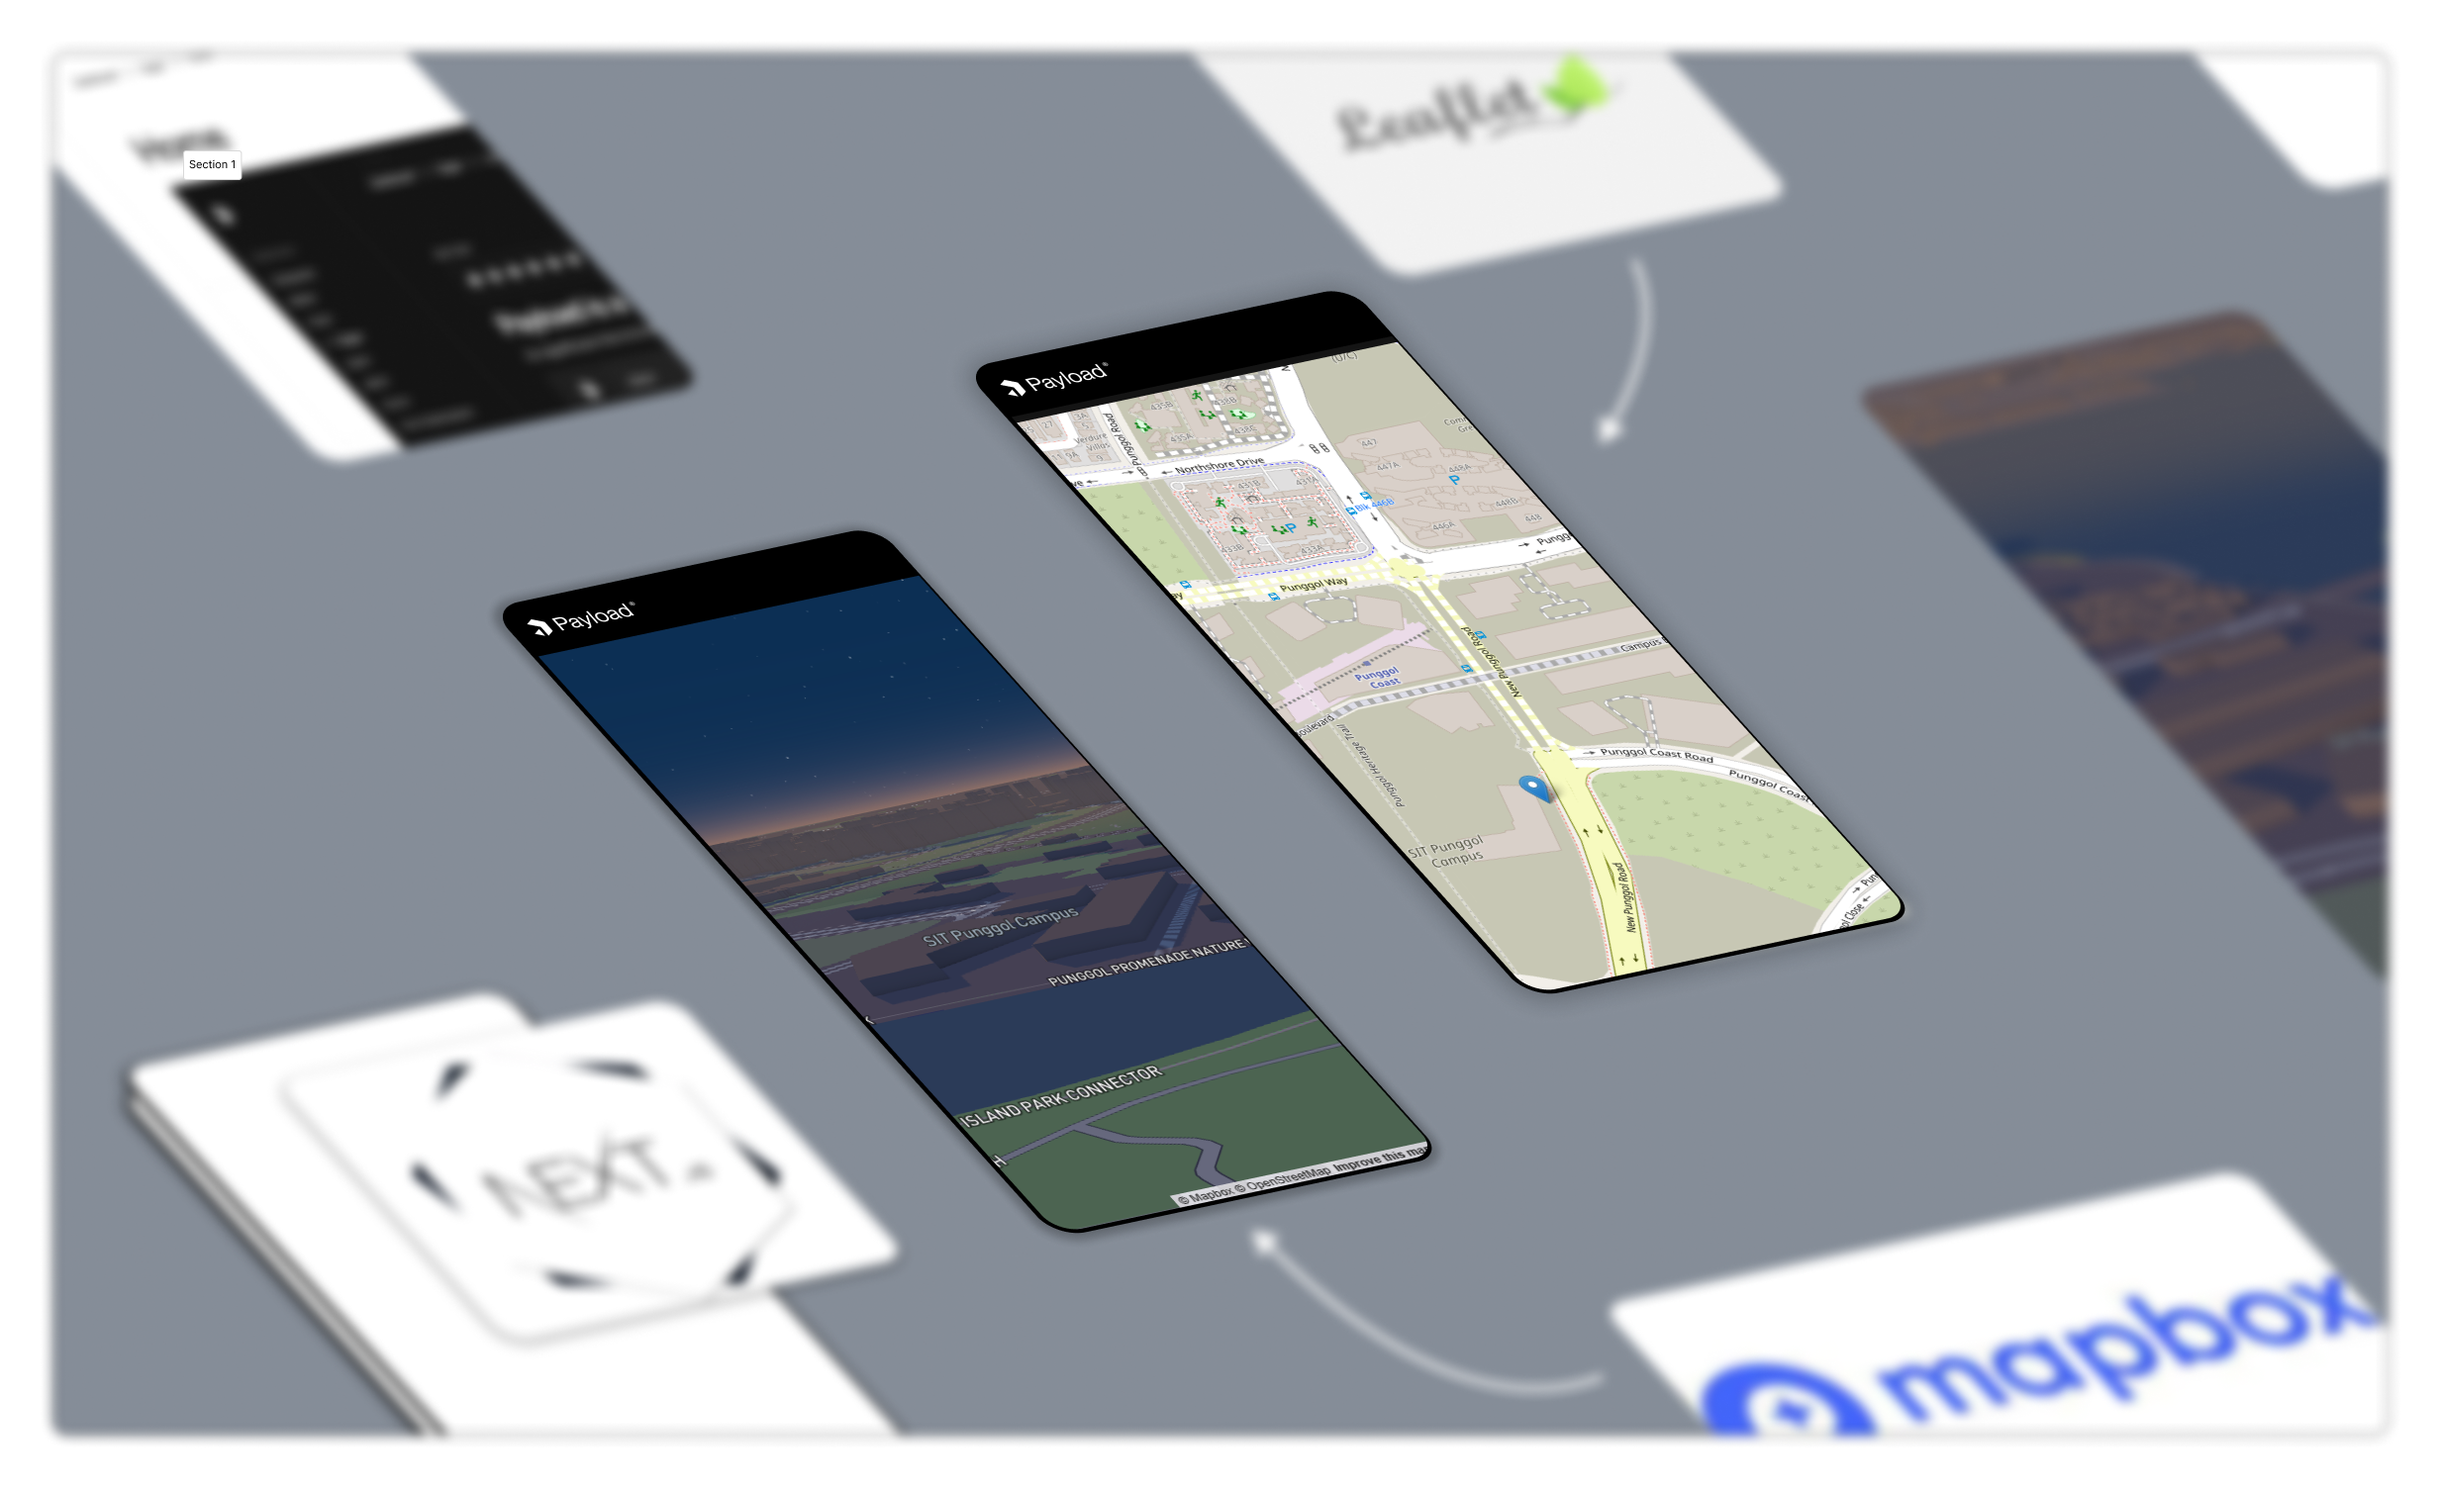
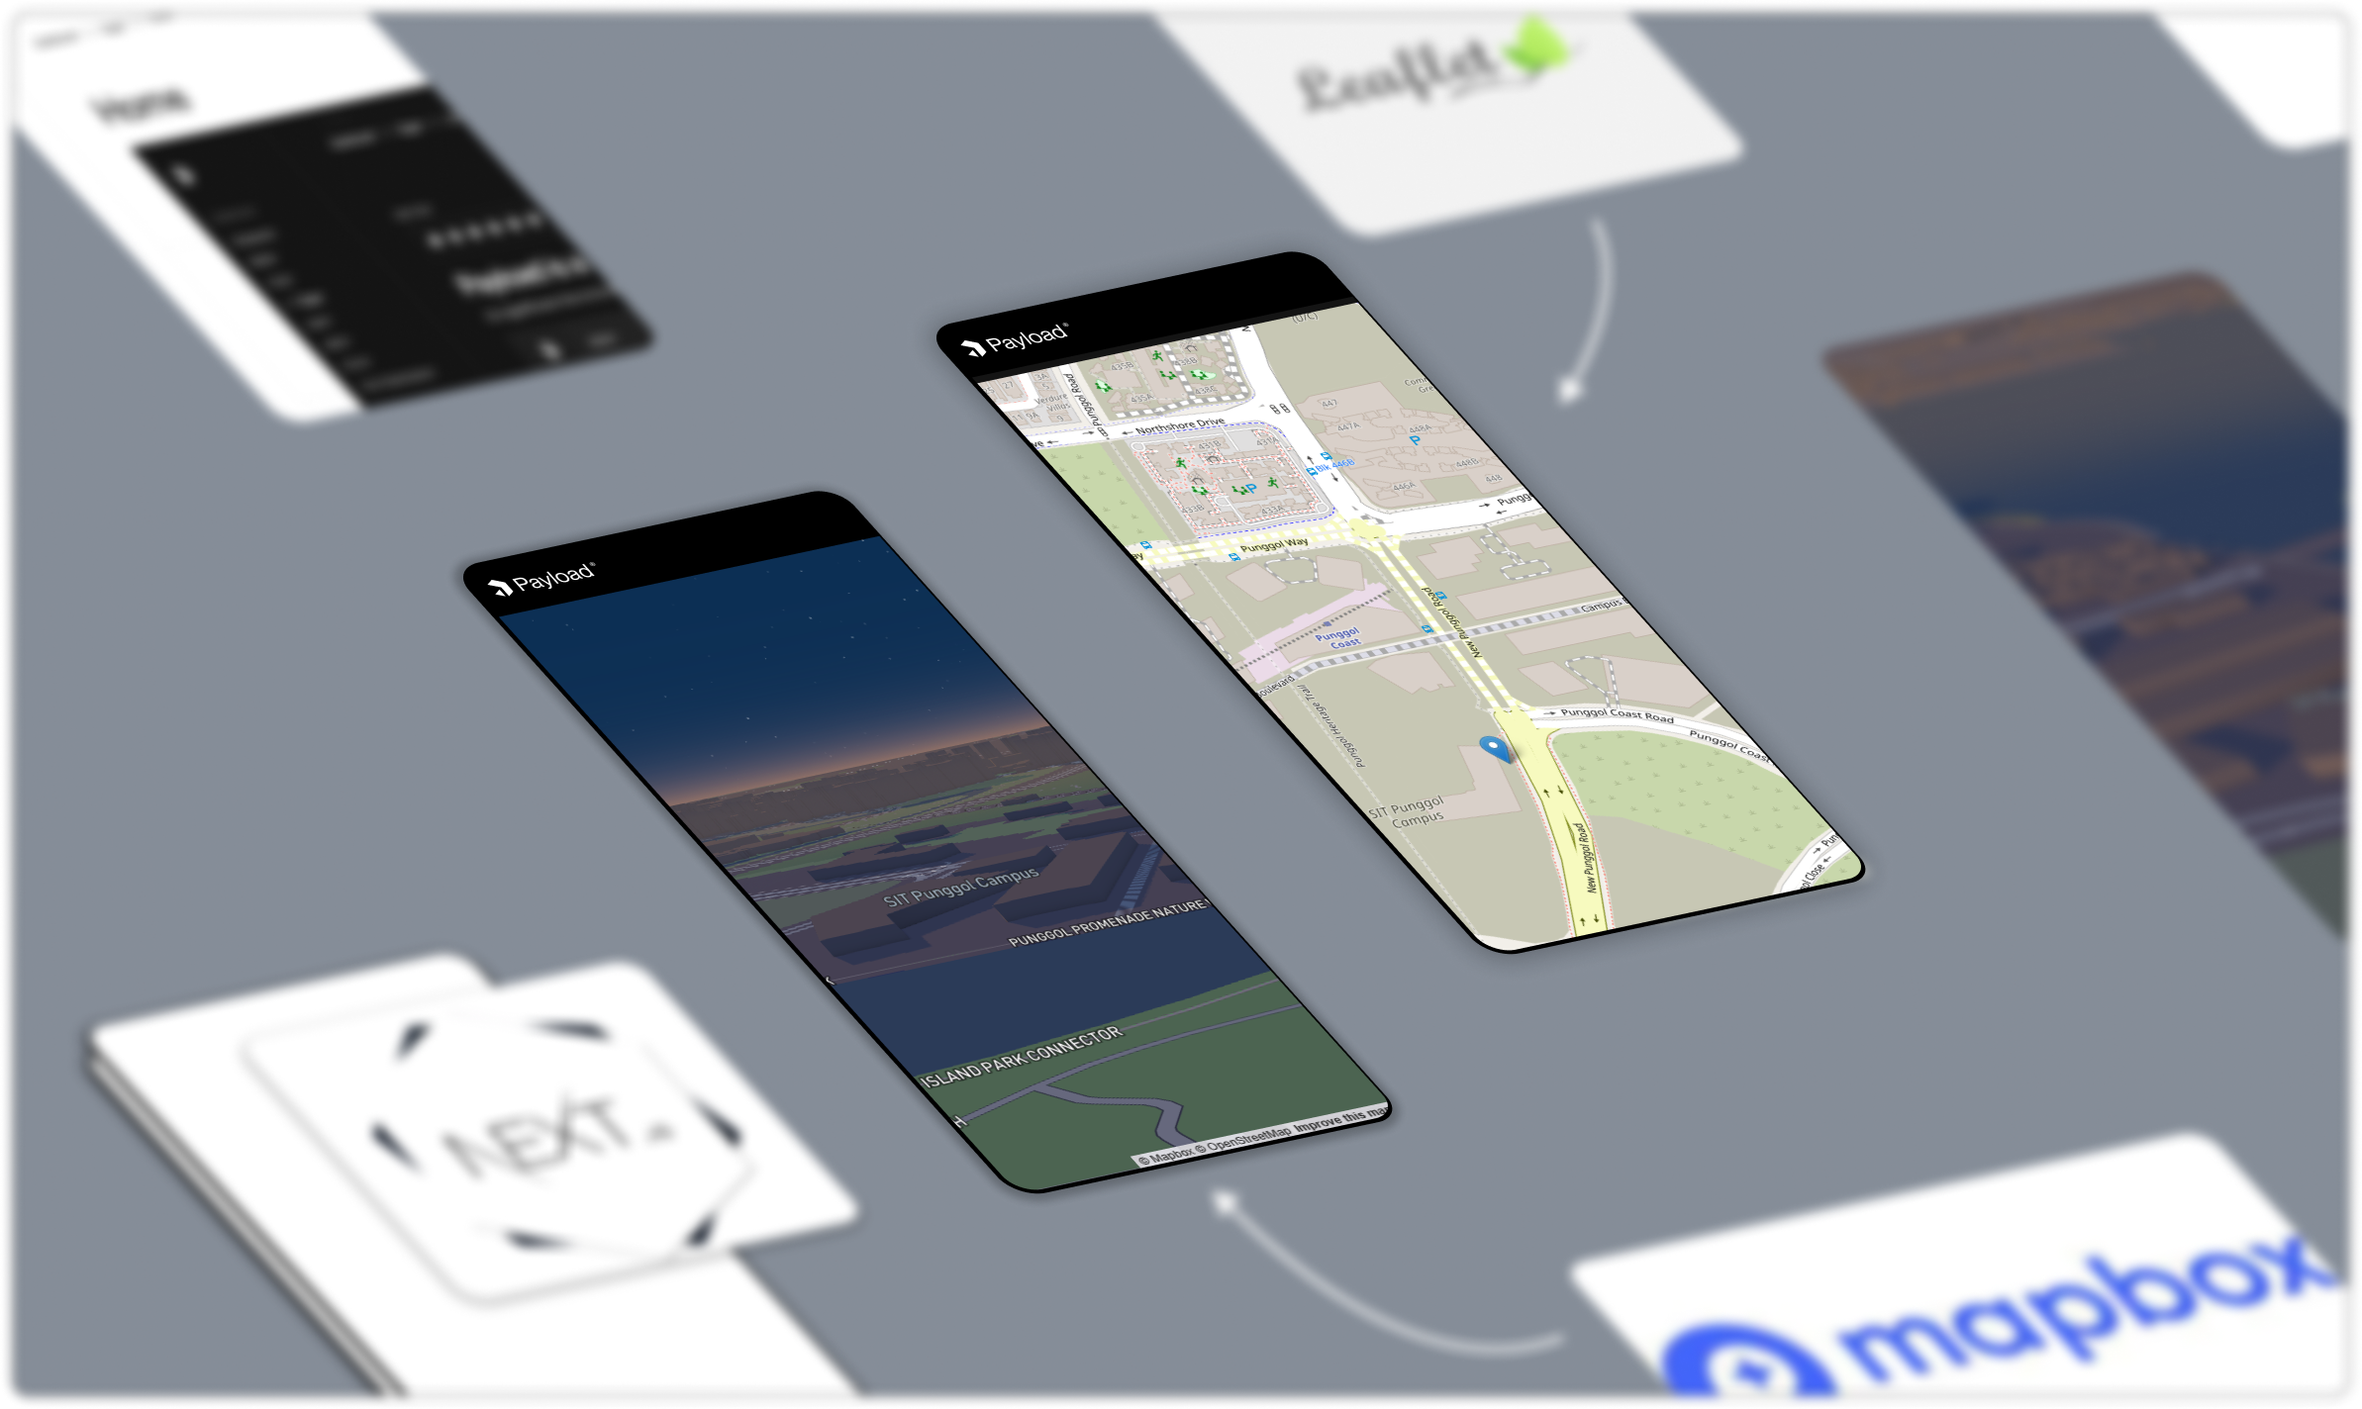
updated assets

diff --git a/src/app/(pages)/mapbox/page.tsx b/src/app/(pages)/mapbox/page.tsx
@@ -21,7 +21,7 @@ const Mapbox = () => {
       zoom={[17]}
       center={[103.912890,1.413576]}
       onStyleLoad={(map)=> {
-        map.setConfigProperty('basemap', 'lightPreset', 'dusk');
+        map.setConfigProperty('basemap', 'lightPreset', 'night');
       }}
     >
       
